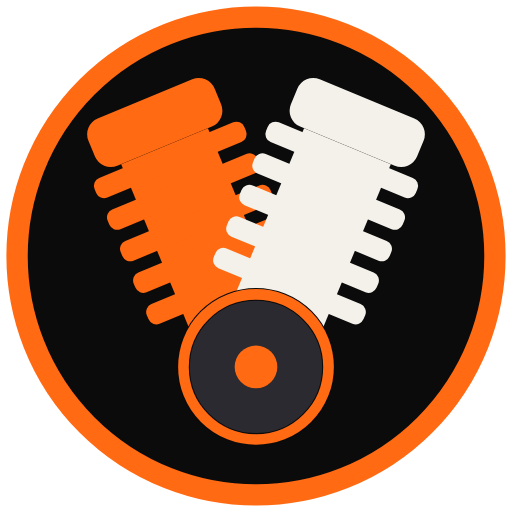
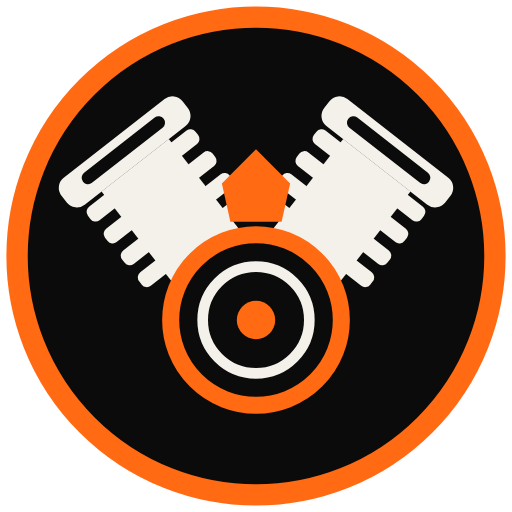
Add files via upload

Changed region(s): [[0.0938, 0.125, 0.9062, 0.875]]

diff --git a/index.html b/index.html
@@ -30,10 +30,10 @@
   --pad:clamp(12px,4vw,18px);
 }
 *{box-sizing:border-box;margin:0;padding:0;-webkit-tap-highlight-color:transparent}
-html,body{background:var(--bg);color:var(--white);font-family:var(--body);-webkit-font-smoothing:antialiased;overflow-x:hidden;-webkit-text-size-adjust:100%;text-size-adjust:100%}
+html,body{background:var(--bg);color:var(--white);font-family:var(--body);-webkit-font-smoothing:antialiased;overflow-x:clip;-webkit-text-size-adjust:100%;text-size-adjust:100%}
 body{min-height:100vh;padding:env(safe-area-inset-top) env(safe-area-inset-right) env(safe-area-inset-bottom) env(safe-area-inset-left)}
 button{font:inherit;color:inherit;background:none;border:0;cursor:pointer}
-.app{max-width:480px;margin:0 auto;padding:0 max(12px,env(safe-area-inset-left)) calc(28px + env(safe-area-inset-bottom))}
+.app{max-width:480px;margin:0 auto;padding:0 max(12px,env(safe-area-inset-left)) calc(64px + env(safe-area-inset-bottom,0px))}
 
 /* ---------- Kopf + Navigation (bleiben oben stehen) ---------- */
 .sticky{position:sticky;top:0;z-index:10;background:var(--bg);margin:0 -12px;padding:0 12px}
@@ -56,7 +56,7 @@ button{font:inherit;color:inherit;background:none;border:0;cursor:pointer}
 .nav button.on::after{content:"";position:absolute;bottom:-1px;left:22%;right:22%;height:3px;border-radius:3px 3px 0 0;background:var(--orange)}
 
 /* ---------- Ansichten ---------- */
-.view{display:none;padding-top:14px}
+.view{display:none;padding-top:12px}
 .view.on{display:block;animation:vin .25s ease}
 @keyframes vin{from{opacity:0;transform:translateY(6px)}to{opacity:1;transform:none}}
 .vhead{display:flex;align-items:flex-end;justify-content:space-between;gap:10px;margin-bottom:4px}
@@ -75,13 +75,13 @@ button{font:inherit;color:inherit;background:none;border:0;cursor:pointer}
 .loc-name span,.loc-sub{white-space:nowrap;overflow:hidden;text-overflow:ellipsis}
 .loc-sub{font-family:var(--cond);font-weight:500;font-size:clamp(12px,3.6vw,14px);letter-spacing:1px;color:var(--muted);text-transform:uppercase;max-width:100%;padding-left:22px}
 .loc-edit{font-family:var(--cond);font-weight:700;font-size:12px;letter-spacing:1.5px;color:var(--orange);border:1px solid #4a2a10;border-radius:8px;padding:6px 10px;flex:none;align-self:center}
-.date{font-family:var(--cond);font-weight:500;font-size:clamp(13px,4vw,15px);color:var(--muted);margin-top:6px}
+.date{font-family:var(--cond);font-weight:500;font-size:clamp(13px,4vw,15px);color:var(--muted);margin-top:4px}
 .date .tz{color:var(--orange);font-weight:700}
 .stand{font-family:var(--cond);font-weight:600;font-size:14px;color:var(--yellow);margin-top:4px}
 
 .now{display:grid;grid-template-columns:auto auto minmax(0,1fr);align-items:center;gap:clamp(6px,2vw,12px)}
-.now .ic{width:clamp(72px,22vw,100px);height:clamp(72px,22vw,100px)}
-.now-temp{font-family:var(--disp);font-size:clamp(64px,21vw,96px);line-height:.85}
+.now .ic{width:clamp(60px,18vw,84px);height:clamp(60px,18vw,84px)}
+.now-temp{font-family:var(--disp);font-size:clamp(56px,17vw,80px);line-height:.85}
 .now-temp sup{font-size:.45em;color:var(--orange);vertical-align:top;position:relative;top:.1em}
 .now-info{text-align:right;min-width:0}
 .now-desc{font-family:var(--cond);font-weight:700;font-size:clamp(16px,5vw,21px);text-transform:uppercase;letter-spacing:1px;line-height:1.1}
@@ -89,7 +89,7 @@ button{font:inherit;color:inherit;background:none;border:0;cursor:pointer}
 .now-feel b{display:block;font-family:var(--disp);font-weight:400;font-size:clamp(28px,9vw,36px);color:var(--blue);letter-spacing:1px;line-height:1}
 
 .gauge-wrap{display:flex;flex-direction:column;align-items:center;text-align:center}
-.gauge{width:100%;max-width:290px;height:auto}
+.gauge{width:100%;max-width:min(260px,34vh);height:auto}
 .verdict{font-family:var(--disp);font-size:clamp(28px,8.5vw,36px);letter-spacing:4px;line-height:1;margin-top:2px;white-space:nowrap}
 .verdict-sub{font-family:var(--cond);font-weight:500;font-size:clamp(14px,4.4vw,17px);color:var(--muted);margin-top:4px}
 .facts{display:grid;grid-template-columns:repeat(2,minmax(0,1fr));gap:10px;margin-top:14px;width:100%}
@@ -126,7 +126,7 @@ button{font:inherit;color:inherit;background:none;border:0;cursor:pointer}
 .hour-rain{font-family:var(--cond);font-weight:700;font-size:14px;color:var(--blue);margin-top:2px}
 .bar{height:6px;border-radius:3px;background:#2c2c31;margin:7px 6px 0;overflow:hidden}
 .bar i{display:block;height:100%;border-radius:3px}
-.legend{display:flex;flex-wrap:wrap;gap:6px 14px;margin-top:12px;font-family:var(--cond);font-weight:600;font-size:13px;color:var(--muted)}
+.legend{display:grid;grid-template-columns:repeat(2,minmax(0,1fr));gap:8px 12px;margin-top:12px;font-family:var(--cond);font-weight:600;font-size:13px;color:var(--muted)}
 .legend span{display:inline-flex;align-items:center;gap:6px}
 .legend i{width:14px;height:6px;border-radius:3px;display:inline-block}
 .scroll-hint{font-family:var(--cond);font-weight:600;font-size:12px;letter-spacing:1.5px;color:var(--dim);text-transform:uppercase;text-align:right;margin-top:6px}
@@ -200,19 +200,21 @@ button{font:inherit;color:inherit;background:none;border:0;cursor:pointer}
 @keyframes load{0%{transform:translateX(-100%)}100%{transform:translateX(260%)}}
 
 /* Fahrmodus */
-#ride{padding:calc(14px + env(safe-area-inset-top)) clamp(14px,5vw,20px) calc(14px + env(safe-area-inset-bottom));display:none;flex-direction:column;overflow-y:auto}
+#ride{padding:calc(14px + env(safe-area-inset-top)) clamp(14px,5vw,20px) calc(24px + env(safe-area-inset-bottom,0px));display:none;flex-direction:column;overflow-y:auto}
 #ride.show{display:flex}
 .ride-top{display:flex;justify-content:space-between;align-items:center;gap:10px}
 .ride-top .brand svg{width:44px;height:44px}
 .ride-close{height:52px;padding:0 18px;border-radius:14px;background:var(--panel);border:1px solid var(--line);font-family:var(--disp);font-size:22px;letter-spacing:2px;display:flex;align-items:center;gap:6px;flex:none}
 .ride-close svg{width:20px;height:20px}
 .ride-info{font-family:var(--cond);font-weight:600;font-size:13px;letter-spacing:1.5px;color:var(--dim);text-transform:uppercase;text-align:center;margin-top:10px}
-.ride-clock{font-family:var(--disp);font-size:clamp(84px,27vw,140px);line-height:.9;text-align:center;margin-top:8px;letter-spacing:3px}
+.ride-body{flex:1;display:flex;flex-direction:column;justify-content:space-evenly;align-items:center;min-height:0}
+.ride-date{font-family:var(--cond);font-weight:700;font-size:clamp(20px,6.5vw,28px);letter-spacing:2px;color:var(--muted);text-transform:uppercase;text-align:center}
+.ride-clock{font-family:var(--disp);font-size:min(36vw,24vh);line-height:.85;text-align:center;letter-spacing:4px}
 .ride-main{display:flex;align-items:center;justify-content:center;gap:10px;margin-top:4px}
-.ride-main .ic{width:clamp(100px,30vw,160px);height:clamp(100px,30vw,160px)}
-.ride-temp{font-family:var(--disp);font-size:clamp(90px,28vw,150px);line-height:.85}
-.ride-feel{text-align:center;font-family:var(--cond);font-weight:700;font-size:clamp(19px,6vw,26px);color:var(--blue)}
-.ride-next{text-align:center;font-family:var(--cond);font-weight:700;font-size:clamp(20px,6.5vw,28px);margin:14px 0 12px;line-height:1.15}
+.ride-main .ic{width:min(34vw,20vh);height:min(34vw,20vh)}
+.ride-temp{font-family:var(--disp);font-size:min(36vw,24vh);line-height:.85}
+.ride-feel{text-align:center;font-family:var(--cond);font-weight:700;font-size:clamp(22px,7vw,30px);color:var(--blue)}
+.ride-next{text-align:center;font-family:var(--cond);font-weight:700;font-size:clamp(22px,7vw,30px);line-height:1.15}
 .ride-verdict{margin-top:auto;border-radius:20px;padding:16px;text-align:center}
 .ride-verdict small{display:block;font-family:var(--cond);font-weight:700;font-size:14px;letter-spacing:2px;color:#0b0b0c;opacity:.75}
 .ride-verdict b{display:block;white-space:nowrap;font-family:var(--disp);font-weight:400;font-size:clamp(40px,12vw,70px);letter-spacing:4px;line-height:1;color:#0b0b0c}
@@ -222,7 +224,8 @@ button{font:inherit;color:inherit;background:none;border:0;cursor:pointer}
 /* Einstellungen */
 #settings{background:rgba(0,0,0,.7);display:none;align-items:flex-end;justify-content:center;z-index:50}
 #settings.show{display:flex}
-.sheet{width:100%;max-width:480px;background:var(--panel);border-radius:22px 22px 0 0;border-top:3px solid var(--orange);padding:22px 18px calc(24px + env(safe-area-inset-bottom));max-height:90vh;overflow:auto}
+.sheet{width:100%;max-width:480px;background:var(--panel);border-radius:22px 22px 0 0;border-top:3px solid var(--orange);padding:22px 18px 0;max-height:calc(100vh - 24px);max-height:calc(100dvh - 24px);overflow:auto}
+.sheet-foot{position:sticky;bottom:0;background:var(--panel);margin:18px -18px 0;padding:12px 18px calc(28px + env(safe-area-inset-bottom,0px));border-top:1px solid var(--line)}
 .sheet h2{font-family:var(--disp);font-size:clamp(26px,8.5vw,34px);letter-spacing:3px;font-weight:400}
 .lbl{font-family:var(--cond);font-weight:700;font-size:14px;letter-spacing:2px;color:var(--muted);text-transform:uppercase;margin:18px 0 8px}
 .inp{width:100%;height:56px;border-radius:12px;border:1px solid var(--line);background:var(--panel2);color:var(--white);font-family:var(--cond);font-weight:600;font-size:21px;padding:0 14px;min-width:0}
@@ -256,15 +259,16 @@ button{font:inherit;color:inherit;background:none;border:0;cursor:pointer}
 <!-- Fahrmodus -->
 <div class="overlay" id="ride">
   <div class="ride-top">
-    <div class="brand"><svg viewBox="0 0 120 120" class="logo"></svg><div class="brand-txt"><div class="brand-name">FAHRMODUS</div><div class="brand-sub">FÜR DIE HALTERUNG</div></div></div>
+    <div class="brand"><svg viewBox="0 0 120 120" class="logo"></svg><div class="brand-txt"><div class="brand-name">FAHRMODUS</div></div></div>
     <button class="ride-close" id="rideClose"><svg viewBox="0 0 24 24" fill="none" stroke="#f4f1ea" stroke-width="3" stroke-linecap="round" stroke-linejoin="round"><path d="M15 5l-7 7 7 7"/></svg>ZURÜCK</button>
   </div>
-  <div class="ride-info">Große Anzeige · Display bleibt an</div>
-  <div class="ride-clock" id="rideClock">--:--</div>
-  <div class="ride-main"><div class="ic" id="rideIcon"></div><div class="ride-temp" id="rideTemp">--°</div></div>
-  <div class="ride-feel" id="rideFeel"></div>
-  <div class="ride-next" id="rideNext"></div>
-  <div class="ride-verdict" id="rideVerdict"></div>
+  <div class="ride-body">
+    <div class="ride-date" id="rideDate"></div>
+    <div class="ride-clock" id="rideClock">--:--</div>
+    <div class="ride-main"><div class="ic" id="rideIcon"></div><div class="ride-temp" id="rideTemp">--°</div></div>
+    <div class="ride-feel" id="rideFeel"></div>
+    <div class="ride-next" id="rideNext"></div>
+  </div>
   <button class="ride-spruch spruch-line" aria-label="Nächster Spruch"></button>
 </div>
 
@@ -309,7 +313,7 @@ button{font:inherit;color:inherit;background:none;border:0;cursor:pointer}
       <button class="btn" data-speed="90">LANDSTRASSE<small>ca. 90 km/h</small></button>
       <button class="btn" data-speed="130">AUTOBAHN<small>ca. 130 km/h</small></button>
     </div>
-    <button class="btn primary" id="closeSet" style="margin-top:22px">FERTIG</button>
+    <div class="sheet-foot"><button class="btn primary" id="closeSet" style="margin-top:0">FERTIG</button></div>
   </div>
 </div>
 
@@ -358,7 +362,7 @@ button{font:inherit;color:inherit;background:none;border:0;cursor:pointer}
 
       <section class="card">
         <div class="ctitle">Fahr-Tacho</div>
-        <div class="chelp">Wie gut lässt es sich jetzt fahren? 0 = Garage, 100 = Kurventag</div>
+        <div class="chelp">Wie gut lässt es sich jetzt fahren?<br>0 = Garage · 100 = Kurventag</div>
         <div class="gauge-wrap">
           <svg class="gauge" id="gauge" viewBox="0 0 220 154"></svg>
           <div class="verdict" id="verdict">--</div>
@@ -422,7 +426,7 @@ button{font:inherit;color:inherit;background:none;border:0;cursor:pointer}
   <div class="foot">
     Wetterdaten: <a href="https://open-meteo.com/" target="_blank" rel="noopener">Open-Meteo.com</a> (CC BY 4.0)<br>
     Ortsnamen: Open-Meteo Geocoding · BigDataCloud<br>
-    Design by <b>KRAFTPILOT Design</b> · v2.0
+    Design by <b>KRAFTPILOT Design</b> · v2.2
   </div>
 </div>
 
@@ -483,15 +487,21 @@ const keyHour = d => `${d.getUTCFullYear()}-${pad(d.getUTCMonth()+1)}-${pad(d.ge
 
 /* ================= Logo: V2-Motor ================= */
 function logoSVG(){
-  const cyl=(rot,fill)=>{
-    let fins=""; for(let i=0;i<5;i++){ fins+=`<rect x="41" y="${31+i*8}" width="38" height="5" rx="2" fill="${fill}"/>`; }
-    return `<g transform="rotate(${rot} 60 86)"><rect x="49" y="30" width="22" height="50" fill="${fill}"/>${fins}<rect x="44" y="18" width="32" height="12" rx="4" fill="${fill}"/></g>`;
+  // V2-Motor: kurze, breit verrippte Zylinder im weiten V, großes Kurbelgehäuse, Deckel oben in der Mitte
+  const cyl=(rot)=>{
+    let fins=""; for(let i=0;i<4;i++){ fins+=`<rect x="-16" y="${-27+i*6.5}" width="32" height="4" rx="1.5" fill="#f4f1ea"/>`; }
+    return `<g transform="translate(60 75) rotate(${rot}) translate(0 -18)">
+      <rect x="-10" y="-28" width="20" height="28" fill="#f4f1ea"/>${fins}
+      <rect x="-18" y="-36" width="36" height="8" rx="3" fill="#f4f1ea"/>
+      <rect x="-12" y="-34" width="24" height="3" rx="1.5" fill="#0b0b0c"/>
+    </g>`;
   };
   return `<circle cx="60" cy="60" r="56" fill="#0b0b0c" stroke="#ff6a13" stroke-width="5"/>
-  ${cyl(-22.5,"#ff6a13")}${cyl(22.5,"#f4f1ea")}
-  <circle cx="60" cy="86" r="17" fill="#2a2a30" stroke="#0b0b0c" stroke-width="3"/>
-  <circle cx="60" cy="86" r="17" fill="none" stroke="#ff6a13" stroke-width="2.5"/>
-  <circle cx="60" cy="86" r="5" fill="#ff6a13"/>`;
+  ${cyl(-38)}${cyl(38)}
+  <path d="M52 43 L60 35 L68 43 L66 52 L54 52Z" fill="#ff6a13"/>
+  <circle cx="60" cy="75" r="20" fill="#0b0b0c" stroke="#ff6a13" stroke-width="4"/>
+  <circle cx="60" cy="75" r="12.5" fill="none" stroke="#f4f1ea" stroke-width="2.5"/>
+  <circle cx="60" cy="75" r="4.5" fill="#ff6a13"/>`;
 }
 
 /* ================= Wetter-Symbole ================= */
@@ -845,15 +855,14 @@ function renderWoche(){
 }
 
 function renderRide(){
-  const H=state.data.hourly, {i0}=idx(), cur=current(), s=hourScoreAt(H,i0), v=verdictOf(s);
+  const H=state.data.hourly, {i0}=idx(), cur=current();
   $("rideIcon").innerHTML=wxIcon(cur.weather_code,cur.is_day);
   $("rideTemp").textContent=deg(cur.temperature_2m);
   $("rideFeel").textContent=`Gefühlt bei ${state.speed} km/h: ${deg(rideChill(cur.temperature_2m,cur.wind_speed_10m,state.speed))}`;
   const nr=nextRain(H,i0);
   $("rideNext").innerHTML = nr<0 ? `<span style="color:#ffc400">☀</span> Trocken die nächsten 12 Std.` :
     nr===i0 ? `<span style="color:#3fa9f5">●</span> Es regnet gerade` : `<span style="color:#3fa9f5">●</span> Regen ab ${hh(H.time[nr])} Uhr`;
-  $("rideVerdict").style.background=v.c;
-  $("rideVerdict").innerHTML=`<small>JETZT</small><b>${v.t}</b><span>Fahr-Tacho ${s} von 100</span>`;
+
 }
 
 /* ================= Spruch (überall gleich) ================= */
@@ -868,6 +877,7 @@ $$(".spruch,.spruch-line").forEach(b=>b.onclick=()=>{ qi=(qi+1)%SPRUECHE.length;
 function tick(){
   const n=new Date(), t=`${pad(n.getHours())}:${pad(n.getMinutes())}`;
   $("hclock").textContent=t; $("rideClock").textContent=t;
+  $("rideDate").textContent=n.toLocaleDateString("de-DE",{weekday:"long",day:"numeric",month:"long"});
   let txt=`${n.toLocaleDateString("de-DE",{weekday:"long",day:"numeric",month:"long",year:"numeric"})}`;
   if(state.data && state.mode!=="demo" && Math.abs(locOffset()-deviceOffset())>=60){
     const l=locNow(); txt+=` · <span class="tz">Ortszeit ${pad(l.getUTCHours())}:${pad(l.getUTCMinutes())}</span>`;

diff --git a/sw.js b/sw.js
@@ -1,5 +1,5 @@
 /* KRAFTPILOT Fahrwetter – Service Worker: App installierbar + läuft auch ohne Netz */
-const VERSION = "kp-v2.0";
+const VERSION = "kp-v2.2";
 const SHELL = [
   "./", "./index.html", "./manifest.webmanifest",
   "./icons/icon-192.png", "./icons/icon-512.png", "./icons/icon-maskable-512.png"

diff --git a/ANLEITUNG.md b/ANLEITUNG.md
@@ -1,4 +1,4 @@
-# KRAFTPILOT Fahrwetter – v2.0
+# KRAFTPILOT Fahrwetter – v2.2
 
 Wetter-App für Motorradfahrer, weltweit nutzbar.
 Läuft auf Android als App auf dem Startbildschirm (eine Web-App, die man installieren kann).
@@ -27,8 +27,8 @@ Die App braucht eine **https-Adresse**, damit Android sie installieren kann und 
 **Variante B – GitHub Pages**
 Ordnerinhalt in ein GitHub-Repository hochladen → Settings → Pages → Branch „main“ wählen.
 
-**Update später:** Dateien ersetzen und neu hochladen. In `sw.js` die Zeile `const VERSION = "kp-v2.0"`
-hochzählen (z. B. `kp-v2.1`), dann holt sich jedes Handy die neue Version automatisch.
+**Update später:** Dateien ersetzen und neu hochladen. In `sw.js` die Zeile `const VERSION = "kp-v2.2"`
+hochzählen (z. B. `kp-v2.3`), dann holt sich jedes Handy die neue Version automatisch.
 
 ## 2. Auf dem Android-Handy installieren (für dich und die Clique)
 
@@ -50,7 +50,7 @@ Die Adresse einfach per WhatsApp an die Clique schicken, fertig.
 - **TOUR (Tour-Radar):** Wohin lohnt sich die Fahrt? Oben die **beste Richtung** mit Pfeil, darunter alle Richtungen
   sortiert von gut nach schlecht. Umschalten zwischen **Feierabend (ca. 50 km)** und **Tagestour (bis 100 km)**.
 - **WOCHE:** Vorschau für **3 oder 7 Tage** mit Bewertung pro Tag.
-- **Fahrmodus:** Riesige Anzeige für die Handyhalterung (Uhr, Temperatur, Regen-Hinweis, Urteil). Das Display bleibt an.
+- **Fahrmodus:** Riesige Anzeige für die Handyhalterung: Datum, Uhrzeit, Temperatur, gefühlte Temperatur, Regen-Hinweis. Das Display bleibt an.
 - **Spruch:** Auf jeder Ansicht. Antippen zeigt den nächsten.
 - **Ohne Netz:** Die letzten Daten werden mit dem Hinweis „OFFLINE“ angezeigt.
 
